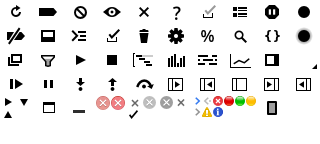
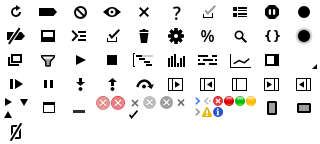
[DevTools] Added portrait and landscape screencast layouts.
BUG=311249

Review URL: https://codereview.chromium.org/107193009

git-svn-id: svn://svn.chromium.org/blink/trunk@164793 bbb929c8-8fbe-4397-9dbb-9b2b20218538

Changed region(s): [[0.9062, 0.6944, 0.9688, 0.8056], [0.0312, 0.8611, 0.0938, 0.9722]]

diff --git a/Source/devtools/front_end/ScreencastView.js b/Source/devtools/front_end/ScreencastView.js
@@ -32,63 +32,13 @@
  * @constructor
  * @extends {WebInspector.View}
  * @implements {WebInspector.DOMNodeHighlighter}
+ * @param {!Element} statusBarButtonPlaceholder
  */
-WebInspector.ScreencastView = function()
+WebInspector.ScreencastView = function(statusBarButtonPlaceholder)
 {
     WebInspector.View.call(this);
     this.registerRequiredCSS("screencastView.css");
-
-    this.element.classList.add("fill");
-    this.element.classList.add("screencast");
-
-    this._createNavigationBar();
-
-    this._viewportElement = this.element.createChild("div", "screencast-viewport hidden");
-    this._glassPaneElement = this.element.createChild("div", "screencast-glasspane hidden");
-
-    this._canvasElement = this._viewportElement.createChild("canvas");
-    this._canvasElement.tabIndex = 1;
-    this._canvasElement.addEventListener("mousedown", this._handleMouseEvent.bind(this), false);
-    this._canvasElement.addEventListener("mouseup", this._handleMouseEvent.bind(this), false);
-    this._canvasElement.addEventListener("mousemove", this._handleMouseEvent.bind(this), false);
-    this._canvasElement.addEventListener("mousewheel", this._handleMouseEvent.bind(this), false);
-    this._canvasElement.addEventListener("click", this._handleMouseEvent.bind(this), false);
-    this._canvasElement.addEventListener("contextmenu", this._handleContextMenuEvent.bind(this), false);
-    this._canvasElement.addEventListener("keydown", this._handleKeyEvent.bind(this), false);
-    this._canvasElement.addEventListener("keyup", this._handleKeyEvent.bind(this), false);
-    this._canvasElement.addEventListener("keypress", this._handleKeyEvent.bind(this), false);
-
-    this._titleElement = this._viewportElement.createChild("div", "screencast-element-title monospace hidden");
-    this._tagNameElement = this._titleElement.createChild("span", "screencast-tag-name");
-    this._nodeIdElement = this._titleElement.createChild("span", "screencast-node-id");
-    this._classNameElement = this._titleElement.createChild("span", "screencast-class-name");
-    this._titleElement.appendChild(document.createTextNode(" "));
-    this._nodeWidthElement = this._titleElement.createChild("span");
-    this._titleElement.createChild("span", "screencast-px").textContent = "px";
-    this._titleElement.appendChild(document.createTextNode(" \u00D7 "));
-    this._nodeHeightElement = this._titleElement.createChild("span");
-    this._titleElement.createChild("span", "screencast-px").textContent = "px";
-
-    this._imageElement = new Image();
-    this._isCasting = false;
-    this._context = this._canvasElement.getContext("2d");
-    this._checkerboardPattern = this._createCheckerboardPattern(this._context);
-
-    this._shortcuts = /** !Object.<number, function(Event=):boolean> */ ({});
-    this._shortcuts[WebInspector.KeyboardShortcut.makeKey("l", WebInspector.KeyboardShortcut.Modifiers.Ctrl)] = this._focusNavigationBar.bind(this);
-
-    WebInspector.resourceTreeModel.addEventListener(WebInspector.ResourceTreeModel.EventTypes.ScreencastFrame, this._screencastFrame, this);
-    WebInspector.resourceTreeModel.addEventListener(WebInspector.ResourceTreeModel.EventTypes.ScreencastVisibilityChanged, this._screencastVisibilityChanged, this);
-
-    WebInspector.timelineManager.addEventListener(WebInspector.TimelineManager.EventTypes.TimelineStarted, this._onTimeline.bind(this, true), this);
-    WebInspector.timelineManager.addEventListener(WebInspector.TimelineManager.EventTypes.TimelineStopped, this._onTimeline.bind(this, false), this);
-    this._timelineActive = WebInspector.timelineManager.isStarted();
-
-    WebInspector.cpuProfilerModel.addEventListener(WebInspector.CPUProfilerModel.EventTypes.ProfileStarted, this._onProfiler.bind(this, true), this);
-    WebInspector.cpuProfilerModel.addEventListener(WebInspector.CPUProfilerModel.EventTypes.ProfileStopped, this._onProfiler.bind(this, false), this);
-    this._profilerActive = WebInspector.cpuProfilerModel.isRecordingProfile();
-
-    this._updateGlasspane();
+    this._statusBarButtonPlaceholder = statusBarButtonPlaceholder;
 }
 
 WebInspector.ScreencastView._bordersSize = 40;
@@ -98,6 +48,84 @@ WebInspector.ScreencastView._navBarHeight = 29;
 WebInspector.ScreencastView._HttpRegex = /^https?:\/\/(.+)/;
 
 WebInspector.ScreencastView.prototype = {
+    initialize: function()
+    {
+        this.element.classList.add("fill");
+        this.element.classList.add("screencast");
+
+        this._createNavigationBar();
+
+        this._viewportElement = this.element.createChild("div", "screencast-viewport hidden");
+        this._glassPaneElement = this.element.createChild("div", "screencast-glasspane hidden");
+
+        this._canvasElement = this._viewportElement.createChild("canvas");
+        this._canvasElement.tabIndex = 1;
+        this._canvasElement.addEventListener("mousedown", this._handleMouseEvent.bind(this), false);
+        this._canvasElement.addEventListener("mouseup", this._handleMouseEvent.bind(this), false);
+        this._canvasElement.addEventListener("mousemove", this._handleMouseEvent.bind(this), false);
+        this._canvasElement.addEventListener("mousewheel", this._handleMouseEvent.bind(this), false);
+        this._canvasElement.addEventListener("click", this._handleMouseEvent.bind(this), false);
+        this._canvasElement.addEventListener("contextmenu", this._handleContextMenuEvent.bind(this), false);
+        this._canvasElement.addEventListener("keydown", this._handleKeyEvent.bind(this), false);
+        this._canvasElement.addEventListener("keyup", this._handleKeyEvent.bind(this), false);
+        this._canvasElement.addEventListener("keypress", this._handleKeyEvent.bind(this), false);
+
+        this._titleElement = this._viewportElement.createChild("div", "screencast-element-title monospace hidden");
+        this._tagNameElement = this._titleElement.createChild("span", "screencast-tag-name");
+        this._nodeIdElement = this._titleElement.createChild("span", "screencast-node-id");
+        this._classNameElement = this._titleElement.createChild("span", "screencast-class-name");
+        this._titleElement.appendChild(document.createTextNode(" "));
+        this._nodeWidthElement = this._titleElement.createChild("span");
+        this._titleElement.createChild("span", "screencast-px").textContent = "px";
+        this._titleElement.appendChild(document.createTextNode(" \u00D7 "));
+        this._nodeHeightElement = this._titleElement.createChild("span");
+        this._titleElement.createChild("span", "screencast-px").textContent = "px";
+
+        this._imageElement = new Image();
+        this._isCasting = false;
+        this._context = this._canvasElement.getContext("2d");
+        this._checkerboardPattern = this._createCheckerboardPattern(this._context);
+
+        this._shortcuts = /** !Object.<number, function(Event=):boolean> */ ({});
+        this._shortcuts[WebInspector.KeyboardShortcut.makeKey("l", WebInspector.KeyboardShortcut.Modifiers.Ctrl)] = this._focusNavigationBar.bind(this);
+
+        WebInspector.resourceTreeModel.addEventListener(WebInspector.ResourceTreeModel.EventTypes.ScreencastFrame, this._screencastFrame, this);
+        WebInspector.resourceTreeModel.addEventListener(WebInspector.ResourceTreeModel.EventTypes.ScreencastVisibilityChanged, this._screencastVisibilityChanged, this);
+
+        WebInspector.timelineManager.addEventListener(WebInspector.TimelineManager.EventTypes.TimelineStarted, this._onTimeline.bind(this, true), this);
+        WebInspector.timelineManager.addEventListener(WebInspector.TimelineManager.EventTypes.TimelineStopped, this._onTimeline.bind(this, false), this);
+        this._timelineActive = WebInspector.timelineManager.isStarted();
+
+        WebInspector.cpuProfilerModel.addEventListener(WebInspector.CPUProfilerModel.EventTypes.ProfileStarted, this._onProfiler.bind(this, true), this);
+        WebInspector.cpuProfilerModel.addEventListener(WebInspector.CPUProfilerModel.EventTypes.ProfileStopped, this._onProfiler.bind(this, false), this);
+        this._profilerActive = WebInspector.cpuProfilerModel.isRecordingProfile();
+
+        this._updateGlasspane();
+
+        this._currentScreencastState = WebInspector.settings.createSetting("currentScreencastState", "");
+        this._lastScreencastState = WebInspector.settings.createSetting("lastScreencastState", "");
+        this._toggleScreencastButton = new WebInspector.StatusBarStatesSettingButton(
+            "screencast-status-bar-item",
+            ["disabled", "left", "top"],
+            [WebInspector.UIString("Disable screencast."), WebInspector.UIString("Switch to portrait screencast."), WebInspector.UIString("Switch to landscape screencast.")],
+            this._currentScreencastState,
+            this._lastScreencastState,
+            this._toggleScreencastButtonClicked.bind(this));
+        this._statusBarButtonPlaceholder.parentElement.insertBefore(this._toggleScreencastButton.element, this._statusBarButtonPlaceholder);
+        this._statusBarButtonPlaceholder.parentElement.removeChild(this._statusBarButtonPlaceholder);
+    },
+
+    /**
+     * @param {string} state
+     */
+    _toggleScreencastButtonClicked: function(state)
+    {
+        if (state === "disabled")
+            WebInspector.inspectorView.hideScreencastView();
+        else
+            WebInspector.inspectorView.showScreencastView(this, state === "left");
+    },
+
     wasShown: function()
     {
         this._startCasting();

diff --git a/Source/devtools/front_end/inspector.js b/Source/devtools/front_end/inspector.js
@@ -60,20 +60,15 @@ var WebInspector = {
         if (this.inspectElementModeController)
             this.inspectorView.appendToLeftToolbar(this.inspectElementModeController.toggleSearchButton.element);
 
-        if (Capabilities.canScreencast) {
-            this._toggleScreencastButton = new WebInspector.StatusBarButton(WebInspector.UIString("Toggle screencast."), "screencast-status-bar-item");
-            this._toggleScreencastButton.addEventListener("click", this._toggleScreencastButtonClicked.bind(this), false);
-            this.inspectorView.appendToLeftToolbar(this._toggleScreencastButton.element);
-        }
-
         this.inspectorView.appendToRightToolbar(this.settingsController.statusBarItem);
         if (this.dockController.element)
             this.inspectorView.appendToRightToolbar(this.dockController.element);
 
-        var closeButtonToolbarItem = document.createElementWithClass("div", "toolbar-close-button-item");
-        var closeButtonElement = closeButtonToolbarItem.createChild("div", "close-button");
-        closeButtonElement.addEventListener("click", WebInspector.close.bind(WebInspector), true);
-        this.inspectorView.appendToRightToolbar(closeButtonToolbarItem);
+        if (Capabilities.canScreencast) {
+            var placeholder = document.createElement("div");
+            this._screencastView = new WebInspector.ScreencastView(placeholder);
+            this.inspectorView.appendToRightToolbar(placeholder);
+        }
     },
 
     /**
@@ -83,21 +78,6 @@ var WebInspector = {
     {
         return !!WebInspector.queryParamsObject["remoteFrontend"];
     },
-
-    _toggleScreencastButtonClicked: function()
-    {
-        this._toggleScreencastButton.toggled = !this._toggleScreencastButton.toggled;
-        WebInspector.settings.screencastEnabled.set(this._toggleScreencastButton.toggled);
-
-        if (this._toggleScreencastButton.toggled) {
-            if (!this._screencastView)
-                this._screencastView = new WebInspector.ScreencastView();
-            this.inspectorView.showScreencastView(this._screencastView);
-        } else {
-            this.inspectorView.hideScreencastView();
-        }
-    },
-
 
     showConsole: function()
     {
@@ -409,9 +389,8 @@ WebInspector._doLoadedDoneWithCapabilities = function()
     WebInspector.WorkerManager.loadCompleted();
     InspectorFrontendAPI.loadCompleted();
 
-    if (Capabilities.canScreencast && WebInspector.settings.screencastEnabled.get())
-        this._toggleScreencastButtonClicked();
-
+    if (Capabilities.canScreencast)
+        this._screencastView.initialize();
     WebInspector.notifications.dispatchEventToListeners(WebInspector.Events.InspectorLoaded);
 }
 

diff --git a/Source/devtools/front_end/InspectorView.js b/Source/devtools/front_end/InspectorView.js
@@ -73,6 +73,11 @@ WebInspector.InspectorView = function()
     this._errorWarningCountElement = this._rightToolbarElement.createChild("div", "hidden");
     this._errorWarningCountElement.id = "error-warning-count";
 
+    this._closeButtonToolbarItem = document.createElementWithClass("div", "toolbar-close-button-item");
+    var closeButtonElement = this._closeButtonToolbarItem.createChild("div", "close-button");
+    closeButtonElement.addEventListener("click", WebInspector.close.bind(WebInspector), true);
+    this._rightToolbarElement.appendChild(this._closeButtonToolbarItem);
+
     this._drawer = new WebInspector.Drawer(this);
     this.appendToRightToolbar(this._drawer.toggleButtonElement());
 
@@ -111,7 +116,7 @@ WebInspector.InspectorView.prototype = {
      */
     appendToRightToolbar: function(element)
     {
-        this._rightToolbarElement.appendChild(element);
+        this._rightToolbarElement.insertBefore(element, this._closeButtonToolbarItem);
     },
 
     /**
@@ -454,12 +459,13 @@ WebInspector.InspectorView.prototype = {
 
     /**
      * @param {!WebInspector.View} view
+     * @param {boolean} vertical
      */
-    showScreencastView: function(view)
+    showScreencastView: function(view, vertical)
     {
-        this._splitView.setVertical(true);
         if (view.parentView() !== this._overlayView)
             view.show(this._overlayView.element);
+        this._splitView.setVertical(vertical);
         this._splitView.showBoth();
     },
 

diff --git a/Source/devtools/front_end/Settings.js b/Source/devtools/front_end/Settings.js
@@ -112,8 +112,6 @@ WebInspector.Settings = function()
     this.showWhitespacesInEditor = this.createSetting("showWhitespacesInEditor", false);
     this.skipStackFramesSwitch = this.createSetting("skipStackFramesSwitch", false);
     this.skipStackFramesPattern = this.createSetting("skipStackFramesPattern", "");
-    this.screencastEnabled = this.createSetting("screencastEnabled", false);
-    this.screencastSidebarWidth = this.createSetting("screencastSidebarWidth", 300);
     this.showEmulationViewInDrawer = this.createSetting("showEmulationViewInDrawer", true);
     this.showRenderingViewInDrawer = this.createSetting("showRenderingViewInDrawer", true);
     this.enableAsyncStackTraces = this.createSetting("enableAsyncStackTraces", false);

diff --git a/Source/devtools/front_end/inspector.css b/Source/devtools/front_end/inspector.css
@@ -672,8 +672,16 @@ body.remote .dock-status-bar-item {
     -webkit-mask-position: -64px -24px;
 }
 
-.screencast-status-bar-item .glyph {
+.screencast-status-bar-item.toggled-left .glyph {
     -webkit-mask-position: -256px -96px;
+}
+
+.screencast-status-bar-item.toggled-top .glyph {
+    -webkit-mask-position: -288px -96px;
+}
+
+.screencast-status-bar-item.toggled-disabled .glyph {
+    -webkit-mask-position: 0px -120px;
 }
 
 .clear-status-bar-item .glyph {
